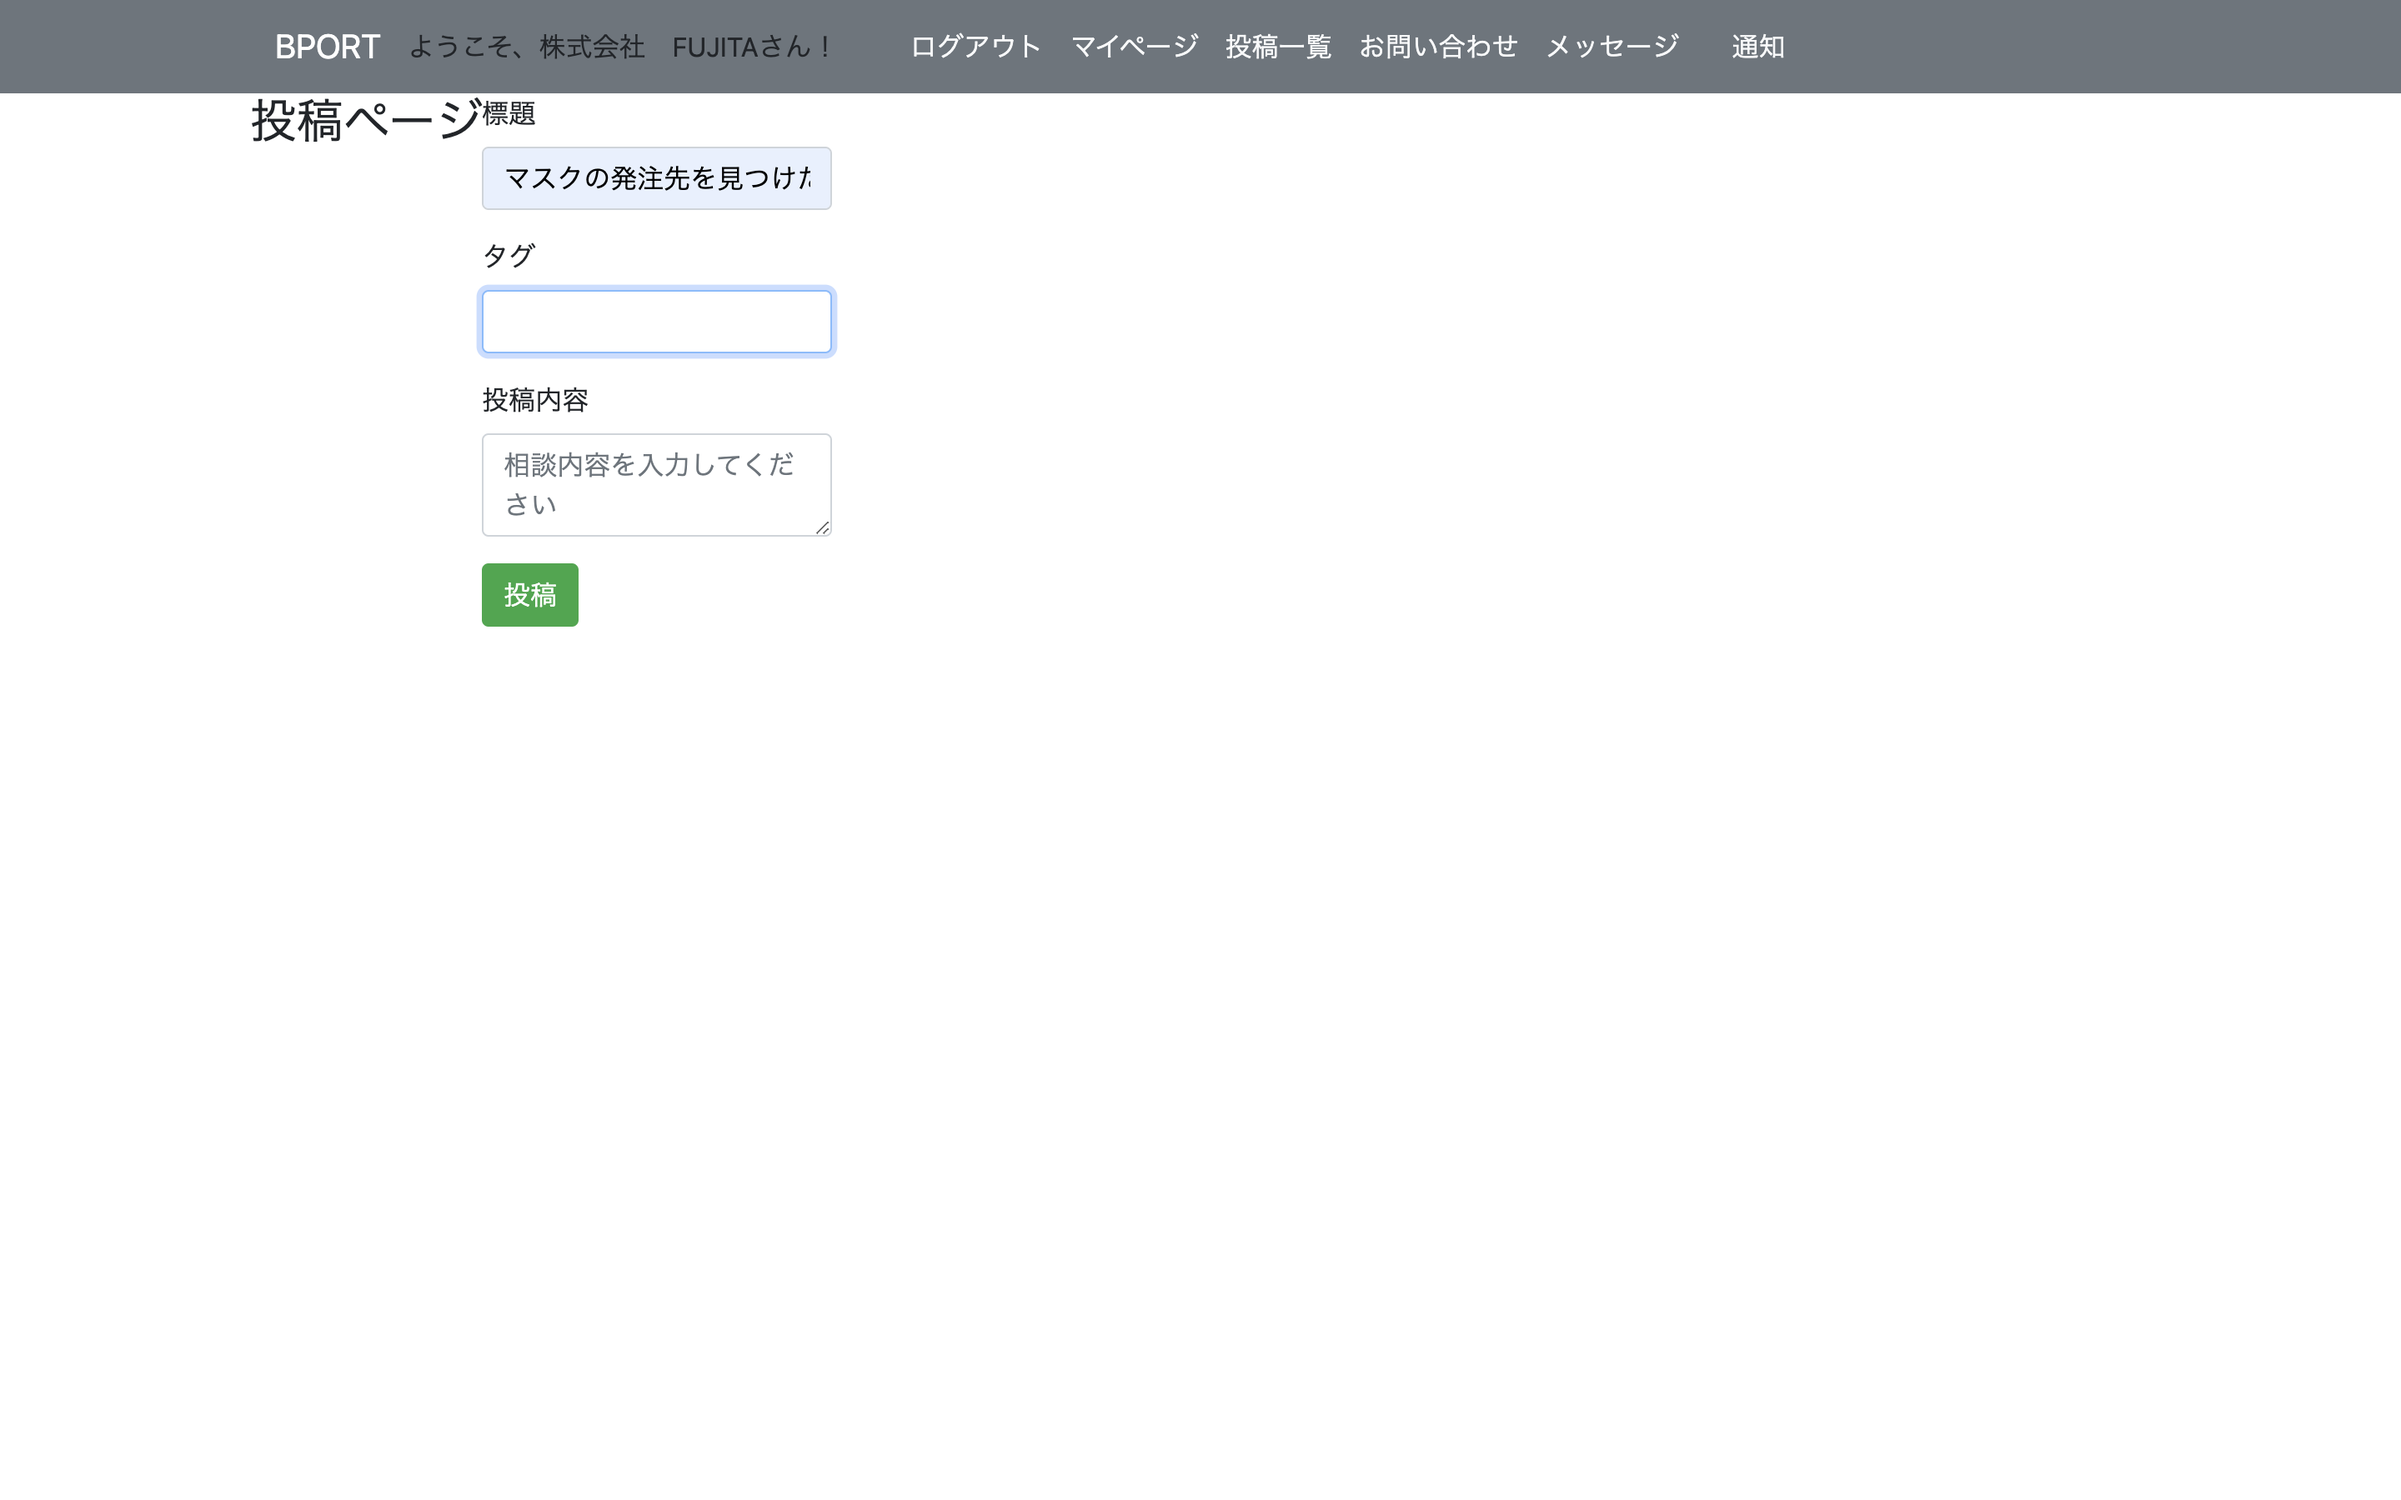
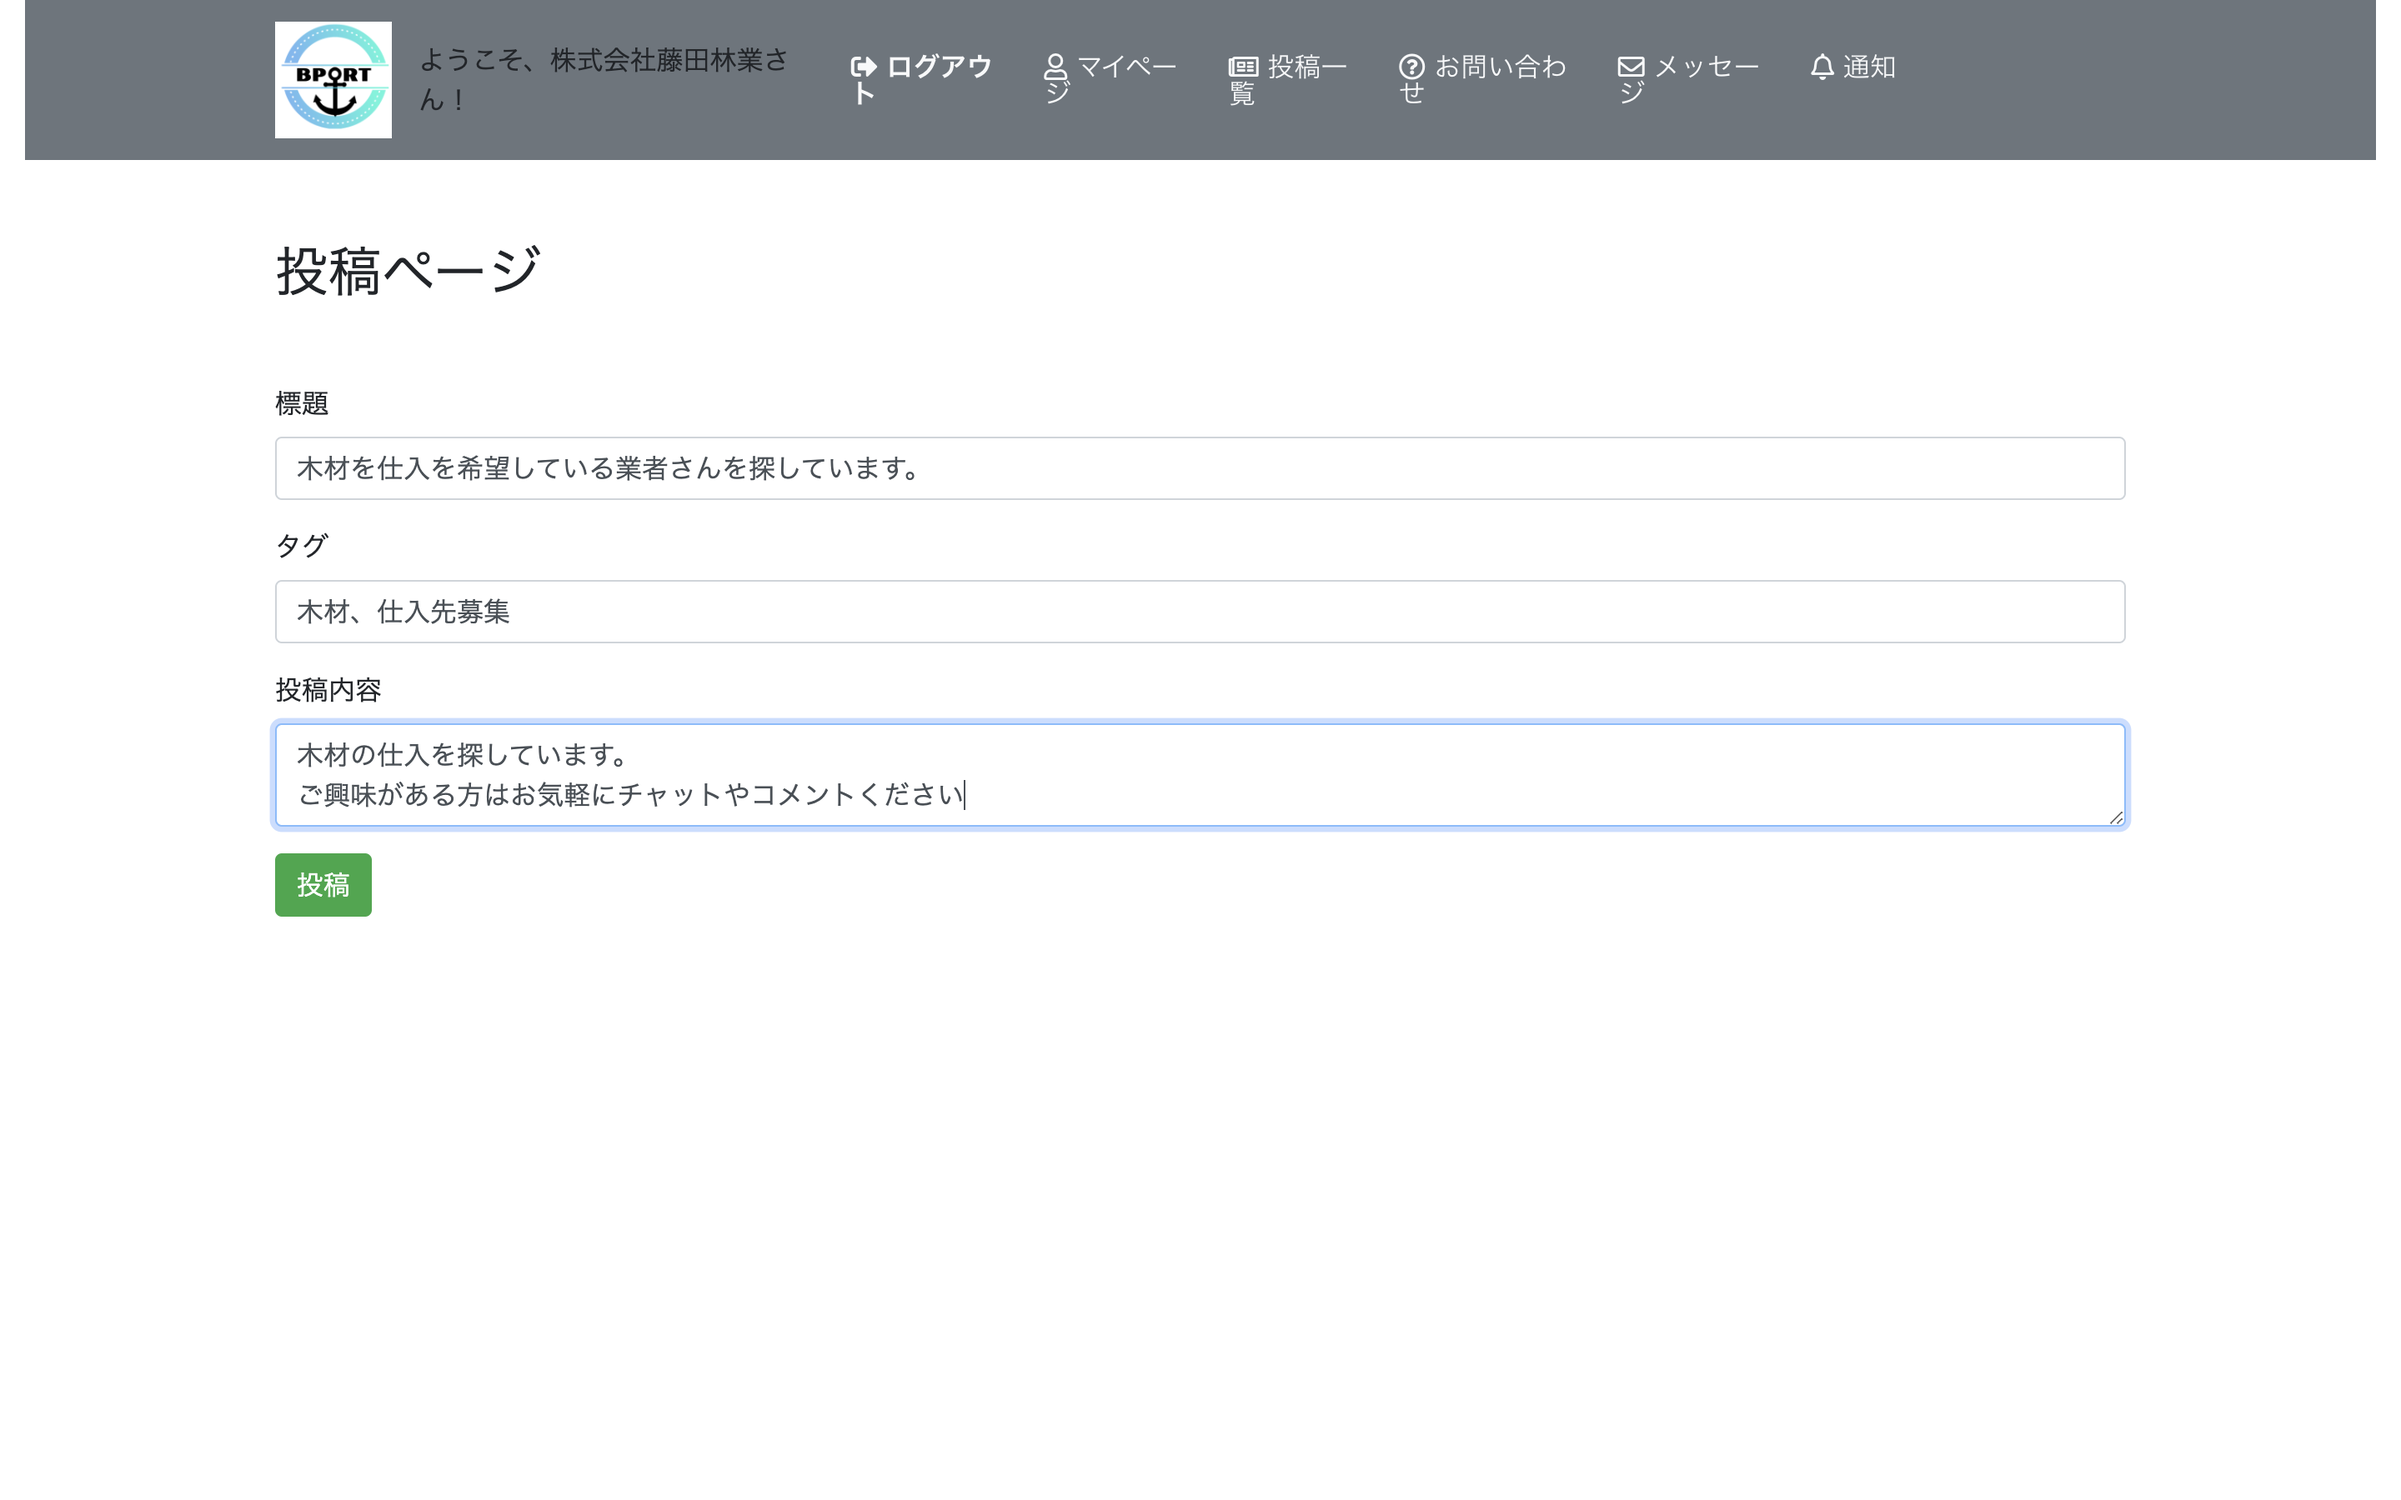
[Update]レイアウト

Changed region(s): [[0.0, 0.0, 1.0, 0.1244], [0.0938, 0.3733, 0.9062, 0.6222], [0.0938, 0.1556, 0.375, 0.3422]]

diff --git a/app/assets/stylesheets/application.scss b/app/assets/stylesheets/application.scss
@@ -175,6 +175,10 @@ footer{
   background-color: #99CCFF;
 }
 
+.detail3{
+  width:437px;
+  height:273px;
+}
 // footer{
 // position: absolute;
 // bottom: 0;
